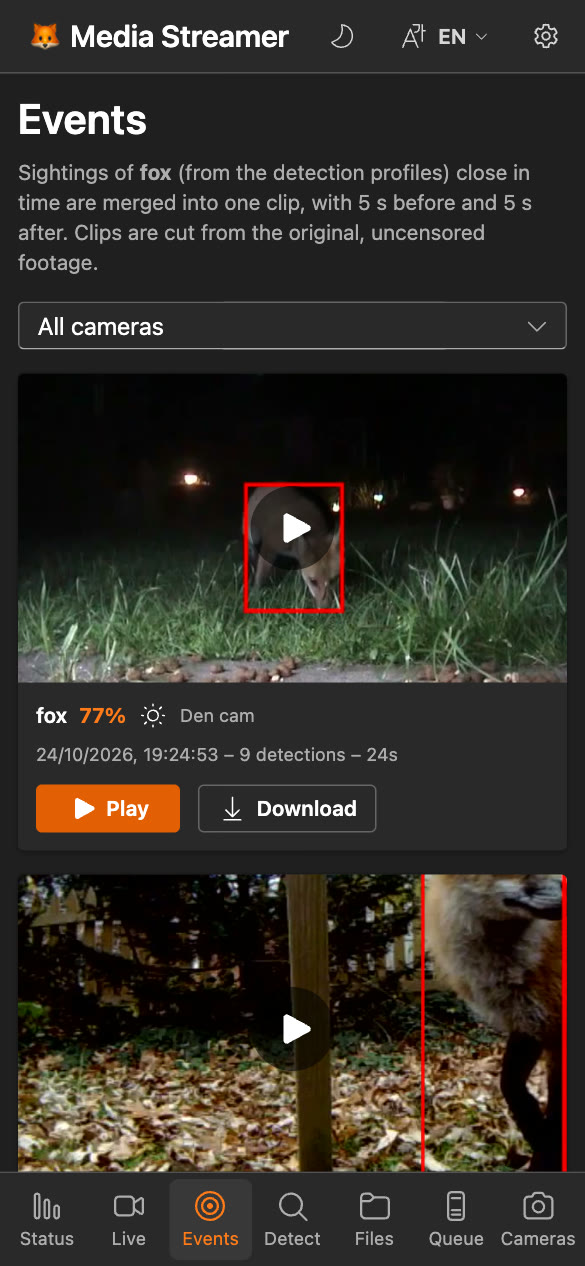
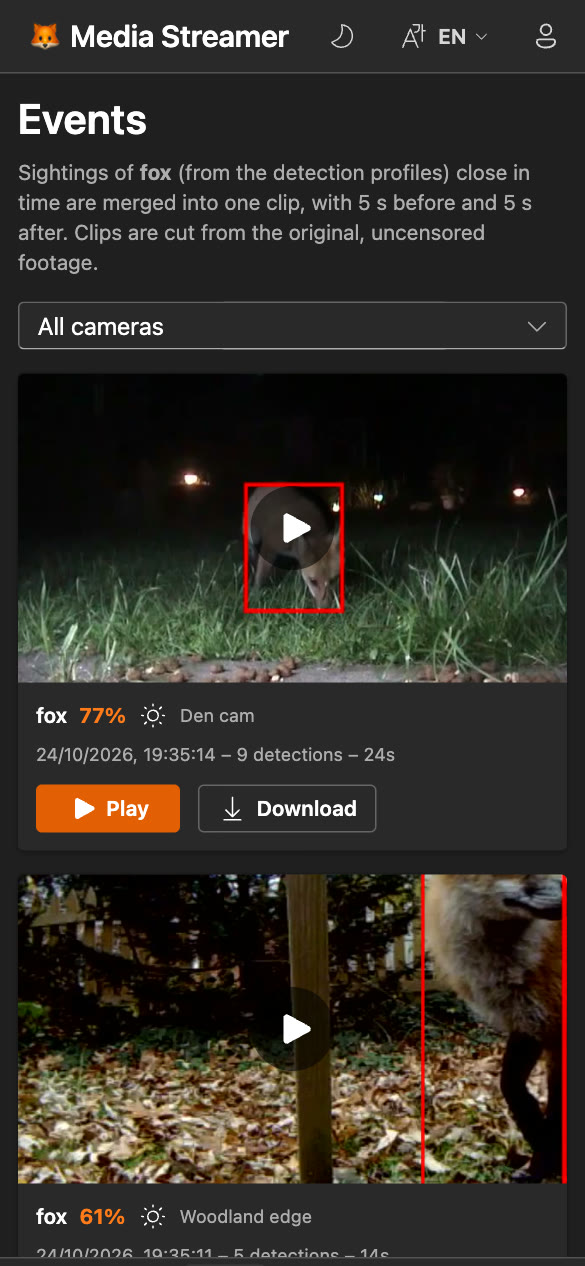
Fit main's newer code to the accounts change
- Segment detection runs (/api/segments/{id}/jobs) check camera access
  like the other segment endpoints.
- mise run screenshots creates a demo admin, signs in and shares the
  session with the browser; screenshots regenerated (now with the
  account menu).

diff --git a/scripts/screenshots.py b/scripts/screenshots.py
@@ -40,6 +40,9 @@ CAMERAS = [  # id, name, sample clip
     ("den", "Den cam", "fox-family-cam.mp4"),
     ("meadow", "Woodland edge", "fox-small.mp4"),
 ]
+# The demo admin the screenshots are taken as (exists only in out/screenshots/).
+ADMIN = ("admin@example.com", "screenshots-demo-password")
+SESSION: dict[str, str] = {}
 DESKTOP = {"viewport": {"width": 1280, "height": 800}, "device_scale_factor": 1.25}
 PHONE = {"viewport": {"width": 390, "height": 844}, "device_scale_factor": 1.5,
          "is_mobile": True, "has_touch": True}
@@ -121,15 +124,55 @@ class Stack:
                 os.killpg(p.pid, signal.SIGKILL)
 
 
+def _headers() -> dict[str, str]:
+    return {"Content-Type": "application/json",
+            **({"Cookie": f"ms_session={SESSION['token']}"} if SESSION else {})}
+
+
 def get(path: str):
-    with urllib.request.urlopen(SERVER + path, timeout=5) as r:
+    req = urllib.request.Request(SERVER + path, headers=_headers())
+    with urllib.request.urlopen(req, timeout=5) as r:
         return json.loads(r.read())
 
 
 def put(path: str, body: dict) -> None:
     req = urllib.request.Request(SERVER + path, data=json.dumps(body).encode(), method="PUT",
-                                 headers={"Content-Type": "application/json"})
+                                 headers=_headers())
     urllib.request.urlopen(req, timeout=5).read()
+
+
+def server_up() -> bool:
+    """Any HTTP answer counts, including 401 before signing in."""
+    import urllib.error
+
+    try:
+        urllib.request.urlopen(SERVER + "/api/status", timeout=2).close()
+    except urllib.error.HTTPError:
+        return True
+    return True
+
+
+def sign_in(stack: Stack) -> None:
+    """Create the demo admin and keep its session for the API calls and the browser."""
+    email, password = ADMIN
+    create = ("import sys\n"
+              "from media_streamer import accounts\n"
+              "from media_streamer.config import get_settings\n"
+              "from media_streamer.db import init_db\n"
+              "s = get_settings(); init_db(s)\n"
+              "accounts.create_user(s, sys.argv[1], sys.argv[2], 'Admin', True)")
+    subprocess.run([str(BIN / "python"), "-c", create, email, password], env=stack.env,
+                   check=True)
+    req = urllib.request.Request(SERVER + "/api/auth/login", method="POST",
+                                 data=json.dumps({"email": email, "password": password}).encode(),
+                                 headers={"Content-Type": "application/json"})
+    with urllib.request.urlopen(req, timeout=10) as r:
+        for header in r.headers.get_all("Set-Cookie") or []:
+            name, _, rest = header.partition("=")
+            if name.strip() == "ms_session":
+                SESSION["token"] = rest.split(";", 1)[0]
+    if not SESSION:
+        raise SystemExit("signing in to the demo server failed")
 
 
 def wait_for(what: str, check, timeout: float, every: float = 3,
@@ -182,7 +225,8 @@ def run_stack(stack: Stack, min_events: int, timeout: float) -> None:
 
     stack.start("mediamtx", [str(mediamtx), str(STACK / "mediamtx.yml")], cwd=STACK)
     stack.start("server", [str(BIN / "media-streamer"), "serve", "--port", str(PORT)])
-    wait_for("the server", lambda: get("/api/status") is not None, 60, every=1, stack=stack)
+    wait_for("the server", server_up, 60, every=1, stack=stack)
+    sign_in(stack)
     stack.start("ingest", [str(BIN / "media-streamer"), "ingest"])
     token = subprocess.run([str(BIN / "media-streamer"), "worker-token", "gpu-box",
                             "--tags", "gpu"], env=stack.env, check=True, capture_output=True,
@@ -276,7 +320,9 @@ def capture(tmp: Path) -> list[str]:
             browser = p.chromium.launch()
         init = ("localStorage.setItem('media-streamer.lang', 'en');"
                 "localStorage.setItem('media-streamer.theme', 'dark');")
+        cookie = [{"name": "ms_session", "value": SESSION["token"], "url": SERVER}]
         desk = browser.new_context(color_scheme="dark", **DESKTOP)
+        desk.add_cookies(cookie)
         desk.add_init_script(init)
         page = desk.new_page()
         shot(page, "dashboard", "/")
@@ -287,6 +333,7 @@ def capture(tmp: Path) -> list[str]:
         shot(page, "profiles", "/cameras#profiles", element="section#profiles")
         shot(page, "queue", "/queue")
         phone = browser.new_context(color_scheme="dark", **PHONE)
+        phone.add_cookies(cookie)
         phone.add_init_script(init)
         page = phone.new_page()
         shot(page, "mobile-events", "/events")

diff --git a/server/src/media_streamer/web/api.py b/server/src/media_streamer/web/api.py
@@ -209,10 +209,10 @@ def segment(segment_id: int, p: Principal = Depends(principal)) -> dict[str, Any
 
 
 @router.get("/segments/{segment_id}/jobs")
-def segment_jobs(segment_id: int,
-                 settings: Settings = Depends(settings_dep)) -> list[dict[str, Any]]:
+def segment_jobs(segment_id: int, settings: Settings = Depends(settings_dep),
+                 p: Principal = Depends(principal)) -> list[dict[str, Any]]:
     """Detection runs of a segment (one per profile) with their detection counts."""
-    _segment(segment_id)
+    _segment(p, segment_id)
     return queries.segment_jobs(settings, segment_id)
 
 
